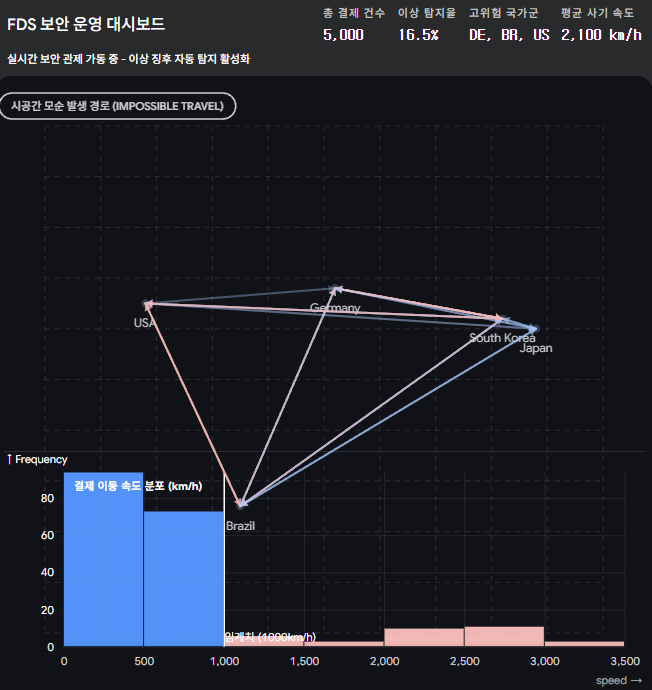
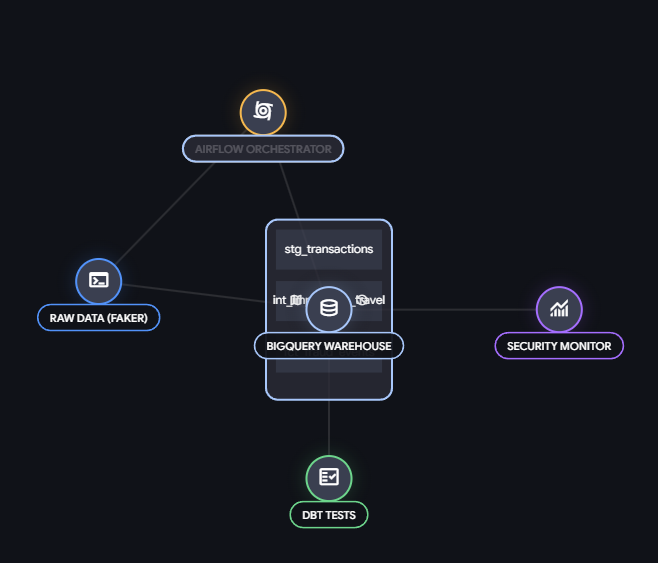
FDS Data-pipeline v4

diff --git a/README.md b/README.md
@@ -1,10 +1,12 @@
 FDS (Fraud Detection System) Data Pipeline
-**해외 결제 이상 거래 탐지를 위한 시공간 기반 데이터 마트 및 자동화 파이프라인 구축**
+시공간 모순(Impossible Travel) 및 비즈니스 로직 기반의 해외 결제 이상 거래 탐지 파이프라인
 
 <br>
 
-## 📌 Project Overview
-본 프로젝트는 글로벌 카드 결제 서비스에서 발생하는 **이상 거래(Fraud)**를 사전에 탐지하기 위해 구축된 데이터 파이프라인입니다. 단순한 결제액 집계를 넘어, 시계열 데이터와 위경도 데이터를 결합하여 **'물리적으로 불가능한 이동(Impossible Travel)'**을 찾아내는 고도화된 비즈니스 룰을 데이터 웨어하우스 단에서 구현했습니다.
+## Project Overview
+본 프로젝트는 글로벌 카드 결제 서비스에서 발생할 수 있는 이상 거래(Fraud)를 사전에 탐지하고 분석하기 위한 End-to-End 데이터 파이프라인입니다. 단순히 데이터를 적재하는 것에 그치지 않고, 물리적 이동 한계를 초과하는 결제 패턴을 정밀하게 타격하는 비즈니스 로직을 구현했습니다.
+
+데이터 엔지니어링의 핵심인 멱등성(Idempotency), 내결함성(Fault Tolerance), 그리고 데이터 무결성(Data Integrity)을 확보하는 데 초점을 맞추어 설계되었습니다.
 
 * **기여도:** 100% (개인 프로젝트)
 * **주요 스택:** Python, Apache Airflow, dbt(data build tool), SQL
@@ -12,7 +14,7 @@ FDS (Fraud Detection System) Data Pipeline
 
 <br>
 
-## 🏗️ Architecture & Data Flow
+## Architecture & Data Flow
 ![Architecture Diagram](architecture_diagram.png) 
 
 
@@ -22,7 +24,7 @@ FDS (Fraud Detection System) Data Pipeline
 
 <br>
 
-## 💡 Key Engineering Challenges & Solutions
+💡 Key Engineering Challenges & Solutions
 
 ### 1. `LAG` 윈도우 함수를 활용한 '시공간 모순(Impossible Travel)' 탐지
 * **문제:** 서울에서 결제한 지 30분 만에 뉴욕에서 결제가 발생하는 도용 케이스를 찾아야 함. 수백만 건의 데이터를 루프(Loop)로 탐색하는 것은 비효율적.
@@ -37,11 +39,29 @@ FDS (Fraud Detection System) Data Pipeline
 
 <br>
 
+## 🛠️ Tech Stack
+Language: Python 3.x, SQL
+
+Orchestration: Apache Airflow
+
+Data Transformation: dbt (data build tool)
+
+Data Warehouse: Google BigQuery (Standard SQL)
+
+Version Control: Git / GitHub
+
 ## 📂 Repository Structure
 ```text
 📦 FDS-Fraud-Detection-Pipeline
- ┣ 📂 dags/                   # Airflow 스케줄링 파일 (fds_daily_pipeline.py)
- ┣ 📂 data_generator/         # Python Faker 기반 데이터 생성 모듈
- ┣ 📂 dbt_fds_marts/          # dbt SQL 모델링 (Staging, Intermediate, Marts)
- ┣ 📂 docs/                   # 다이어그램 및 에셋
- ┗ 📜 README.md
+ ┣ 📂 dags/                   # Airflow DAGs (Scheduling & Retries)
+ ┣ 📂 data_generator/         # Python Faker 기반 데이터 생성 로직
+ ┣ 📂 dbt_fds_marts/
+ ┃ ┣ 📂 macros/               # 하버사인 거리 계산 등 재사용 로직
+ ┃ ┣ 📂 models/
+ ┃ ┃ ┣ 📂 staging/            # Raw 데이터 정제 (Staging Layer)
+ ┃ ┃ ┣ 📂 intermediate/       # 비즈니스 로직 가공 (Intermediate Layer)
+ ┃ ┃ ┗ 📂 marts/              # 최종 분석용 데이터 (Marts Layer)
+ ┃ ┣ 📜 dbt_project.yml       # dbt 전역 설정 및 구체화 전략
+ ┃ ┗ 📜 profiles.sample.yml   # DB 접속 설정 샘플 (보안 가이드 포함)
+ ┣ 📜 README.md
+ ┗ 📜 requirements.txt